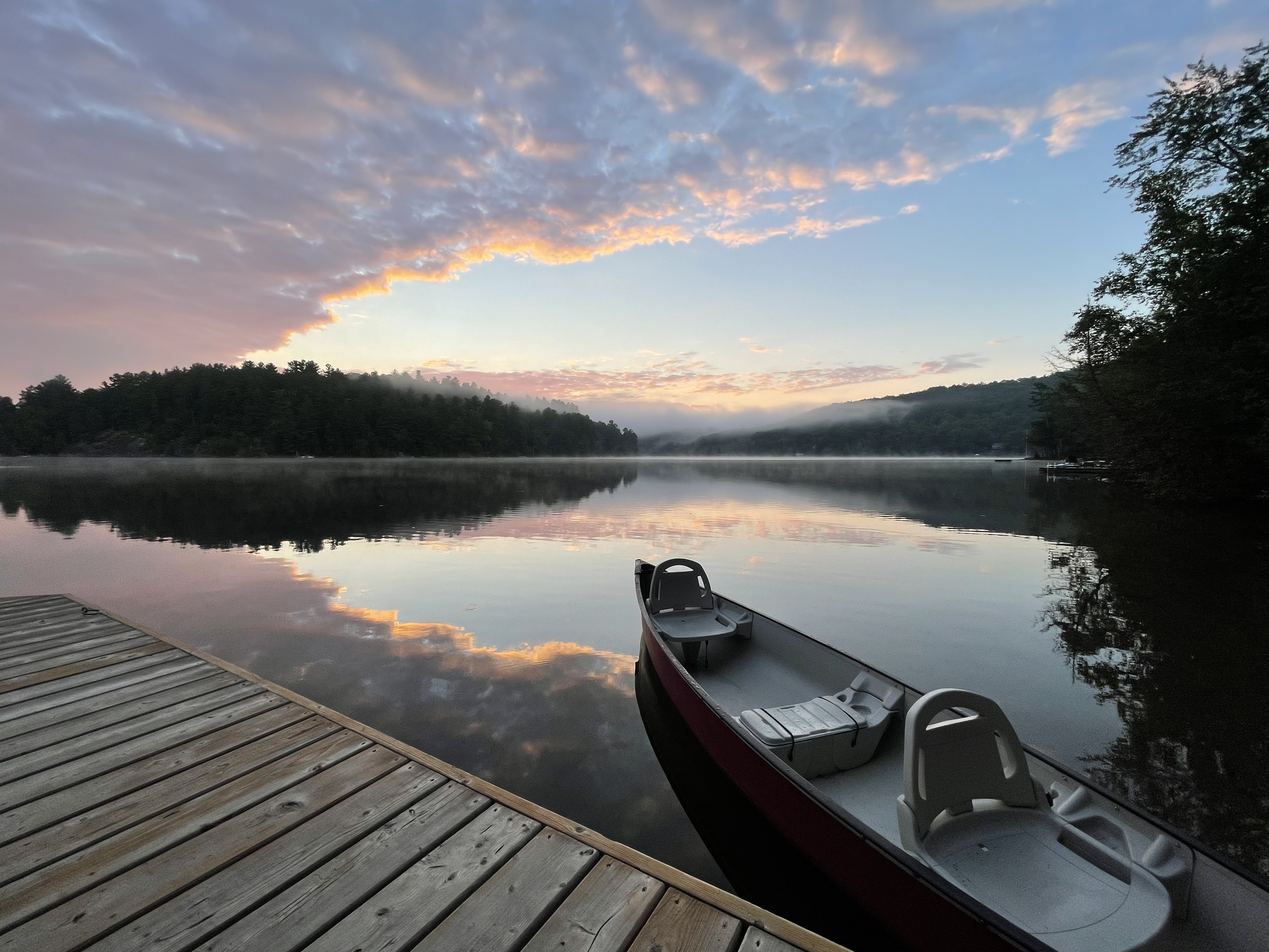
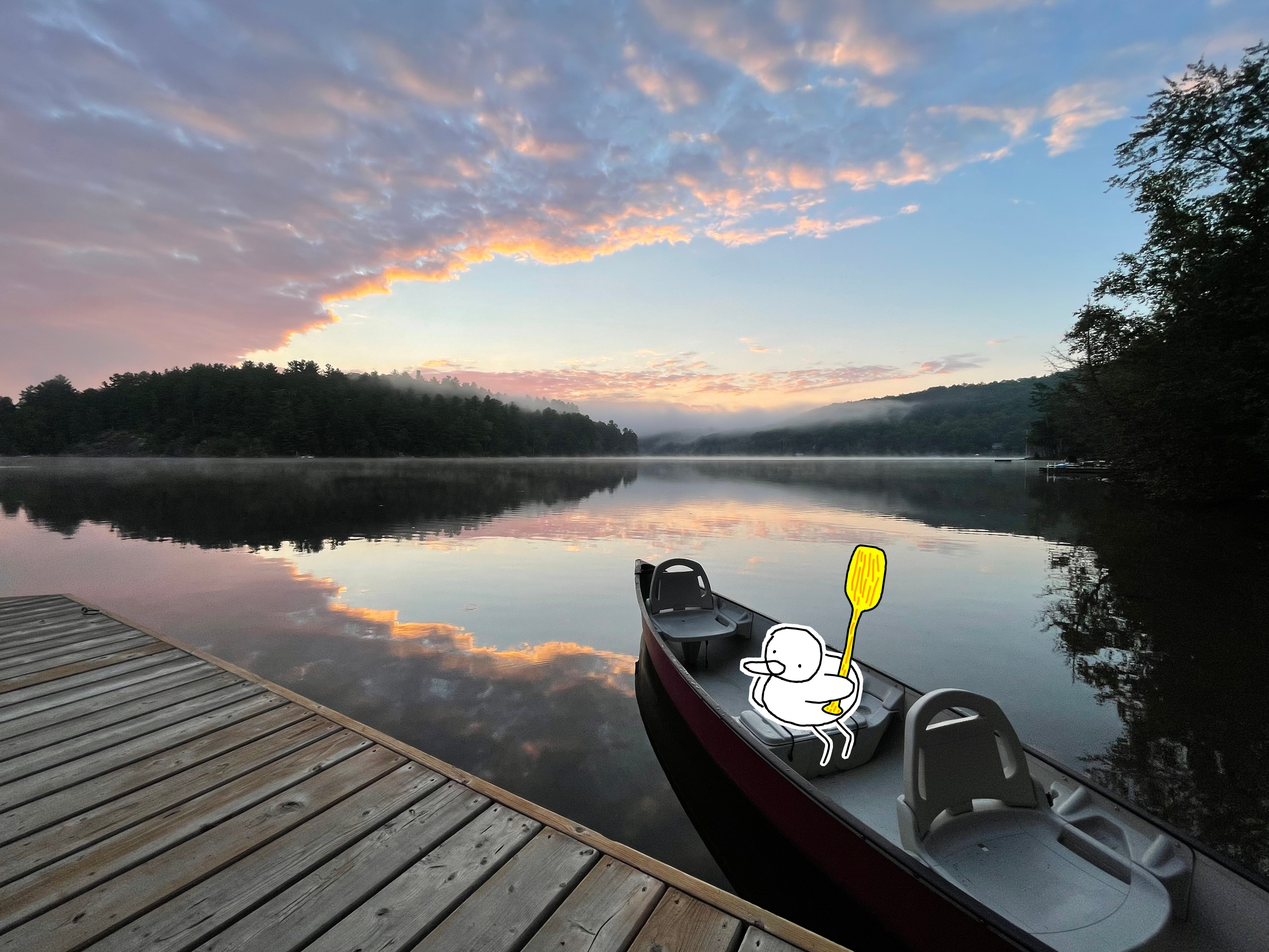
added illustrations and tags, started 3rd article as draft

Changed region(s): [[0.5892, 0.5614, 0.7133, 0.8108]]

diff --git a/content/posts/tutorial-how-i-made-this-website-and-you-can-too/index.md b/content/posts/tutorial-how-i-made-this-website-and-you-can-too/index.md
@@ -1,0 +1,30 @@
+---
+title: "Tutorial: How I Made This Website and You Can Too"
+tags: [projects, hugo, github pages, tutorial]
+date: 2022-12-08
+showDate: true
+showWordCount: true
+showReadingTime: true
+
+# summary: "Hi! My name is Alex Zhu."
+showSummary: true
+showAuthor: true
+showTableOfContents: false
+showComments: true
+showPagination: true
+invertPagination: true
+showTaxonomies: true
+
+draft: true
+---
+
+![Me (illustrated as a duck) working on this website in my dorm.](thumb.jpg "Me (illustrated as a duck) working on this website in my dorm.")
+
+### Table of Contents
+1. What the Final Product Will Look Like (personal website with blog built using Hugo's Congo theme, hosted on Github Pages of your username)
+2. Downloading and using Hugo (with emphasis on setup, link to useful tutorial). It took me 3 tries so don't give up
+3. How to Learn Hugo and Use the Docs. Lots of things u can set up, remember to crossreference resources and understand your theme
+4. Pushing to Github and creating a Github Pages Website (including .yml file, Github Actions for every automated updates)
+5. Bonus: Comments System (link to other article)
+
+`This tutorial will have lots of code snippets and how the result of the code should appear! Please comment if you have any questions.`

diff --git a/content/about/index.md b/content/about/index.md
@@ -18,7 +18,7 @@ showComments: false
 
 **Hi! My name is Alex Zhu (he/him).** I'm studying Software Engineering at the University of Waterloo and will probably graduate as a member of the class of 2027. I grew up in the Ontario GTA, doing a large variety of things like playing tennis, running a YouTube channel, making podcasts and music, debating competitively, and playing video games a bit too competitively.
 
-At some point I became known online as *probablyalex* and the duck you see plastered across this website. Later down the line I decided to study software. Right now, I consider myself to be a:
+At some point I became known online as *probablyalex* and **the duck you see plastered across this website**. Later down the line I decided to study software. Right now, I consider myself to be a:
 - **Frisbee player** (intramurals) :flying_disc:
 - **Skateboarder** (navy blue pennyboard for nearly a decade) :skateboard:
 - **Star Wars fan** (Andor was an incredible feat of filmmaking) :star:

diff --git a/content/_index.md b/content/_index.md
@@ -11,4 +11,4 @@ About Me
 
 I write about projects that I'm working on, as well as self-reflective thoughts and other topics I find interesting. Check out some of my articles below!
 
-![A stylised photograph of a purple squid on a pink backdrop.](lake.jpg "Lake of Bays, 2022. A photo I took in the summer before university")
+![Lake of Bays, 2022. A photo I took in the summer before university with me as duck edited in.](lake.jpg "Lake of Bays, 2022. A photo I took in the summer before university")

diff --git a/content/posts/se-101-final-project-4gains/index.md b/content/posts/se-101-final-project-4gains/index.md
@@ -1,6 +1,6 @@
 ---
 title: "SE 101 Final Project: Full Stack Arduino Exercise Tracker (4Gains)"
-tags: [projects, software engineering, hardware]
+tags: [projects, software engineering, waterloo, hardware]
 date: 2022-12-07
 showDate: true
 showWordCount: true
@@ -13,6 +13,7 @@ showTableOfContents: false
 showComments: true
 showPagination: true
 invertPagination: true
+showTaxonomies: true
 
 draft: false
 ---

diff --git a/content/posts/why-we-should-be-together/index.md b/content/posts/why-we-should-be-together/index.md
@@ -1,6 +1,6 @@
 ---
 title: "Why We Should Be Together"
-tags: [thoughts, first post]
+tags: [thoughts, first post, motivations]
 date: 2022-12-04
 showDate: true
 showWordCount: true
@@ -13,6 +13,7 @@ showTableOfContents: false
 showComments: true
 showPagination: true
 invertPagination: true
+showTaxonomies: true
 
 draft: false
 ---
